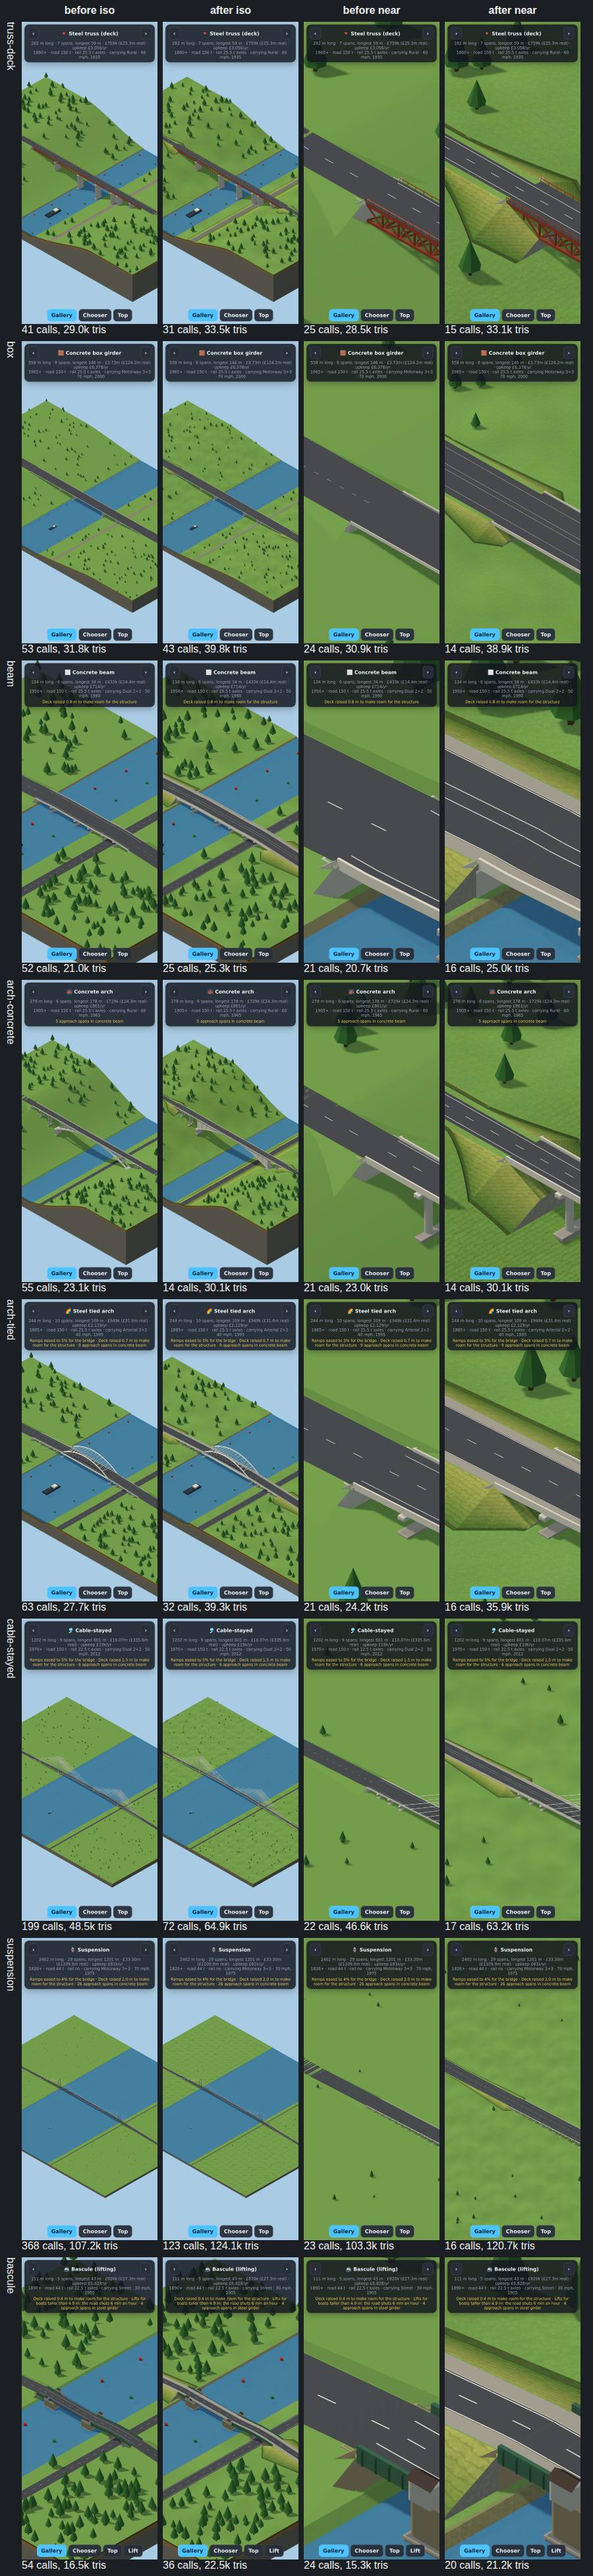
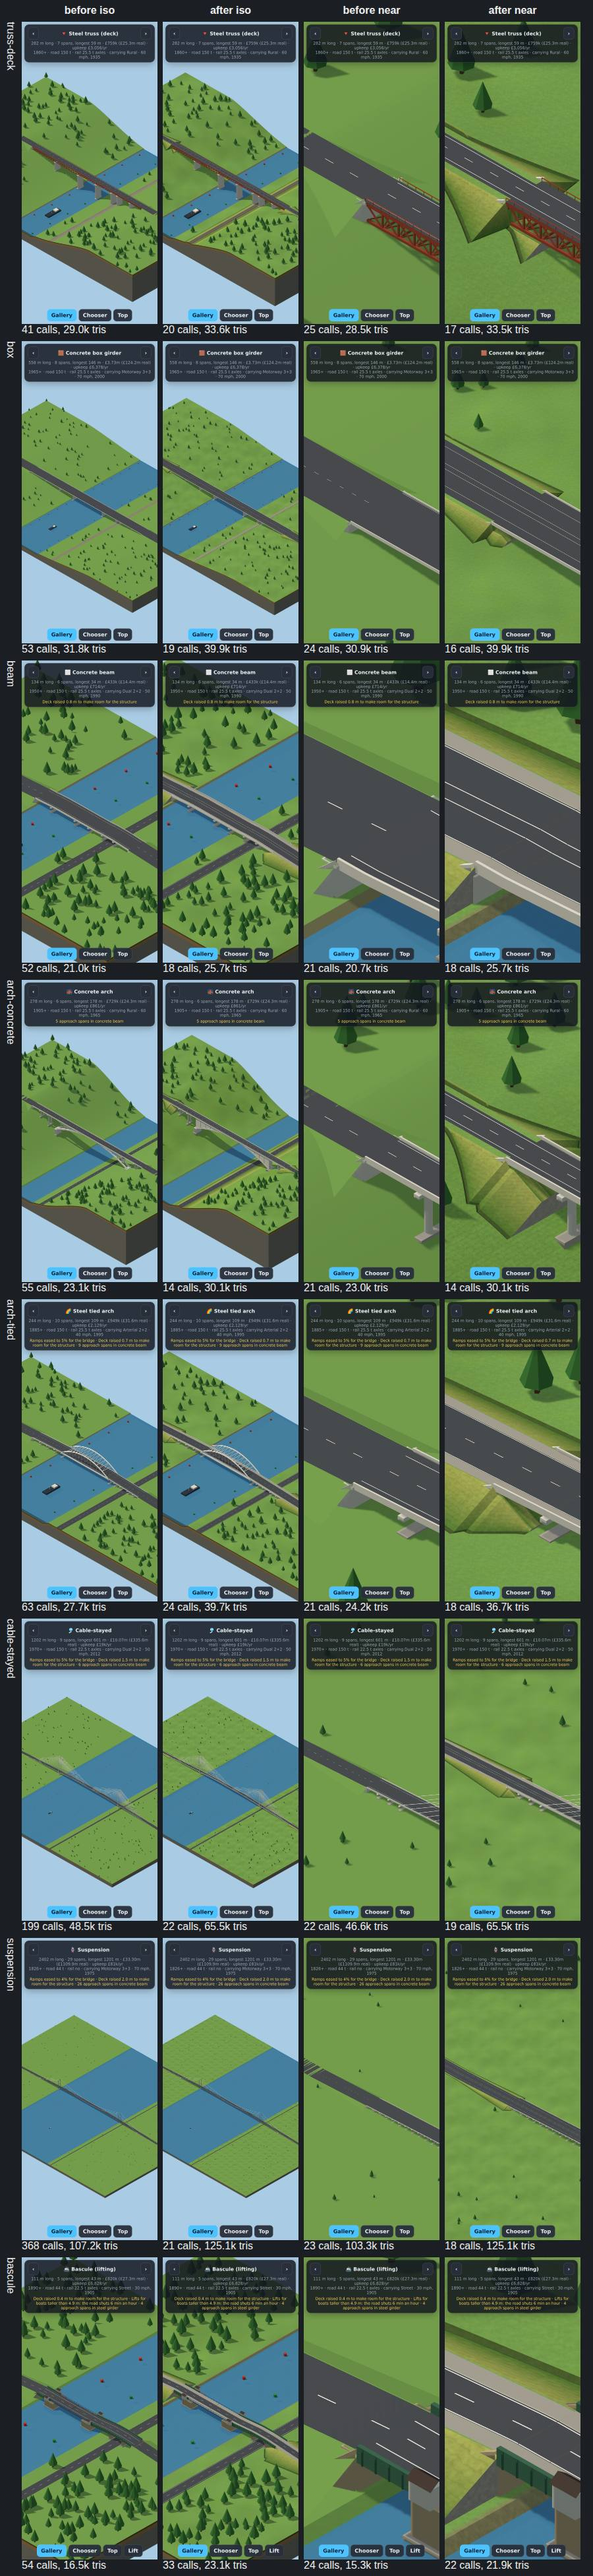
Bridges: final before and after numbers and contact sheets
Claude-Session: https://claude.ai/code/session_017X98YbhdPPReFEcpyd4diZ

diff --git a/docs/reports/bridges.md b/docs/reports/bridges.md
@@ -197,26 +197,47 @@ Draw calls and triangles per frame (shadow pass included), at 412×915 @2×, bef
 
 | Type | Iso before | Iso after | Near before | Near after |
 |---|---|---|---|---|
-| Timber trestle | 39 · 18.6k | 16 · 17.9k | 21 · 18.5k | 18 · 36.5k |
-| Masonry arch viaduct | 59 · 27.1k | 26 · 24.2k | 20 · 26.7k | 17 · 60.1k |
-| Steel girder | 54 · 22.0k | 25 · 19.2k | 22 · 21.7k | 19 · 56.9k |
-| Steel truss (through) | 82 · 49.8k | 34 · 42.8k | 21 · 49.2k | 18 · 80.5k |
-| Steel truss (deck) | 41 · 29.0k | 31 · 33.5k | 25 · 28.5k | 15 · 33.1k |
-| Concrete beam | 52 · 21.0k | 25 · 25.3k | 21 · 20.7k | 16 · 25.0k |
-| Concrete box girder | 53 · 31.8k | 43 · 39.8k | 24 · 30.9k | 14 · 38.9k |
+| Timber trestle | 39 · 18.6k | 19 · 34.9k | 21 · 18.5k | 16 · 26.5k |
+| Masonry arch viaduct | 59 · 27.1k | 18 · 23.6k | 20 · 26.7k | 19 · 53.3k |
+| Steel girder | 54 · 22.0k | 20 · 19.0k | 22 · 21.7k | 19 · 34.5k |
+| Steel truss (through) | 82 · 49.8k | 20 · 41.2k | 21 · 49.2k | 20 · 70.8k |
+| Steel truss (deck) | 41 · 29.0k | 20 · 33.6k | 25 · 28.5k | 17 · 33.5k |
+| Concrete beam | 52 · 21.0k | 18 · 25.7k | 21 · 20.7k | 18 · 25.7k |
+| Concrete box girder | 53 · 31.8k | 19 · 39.9k | 24 · 30.9k | 16 · 39.9k |
 | Concrete arch | 55 · 23.1k | 14 · 30.1k | 21 · 23.0k | 14 · 30.1k |
-| Steel tied arch | 63 · 27.7k | 32 · 39.3k | 21 · 24.2k | 16 · 35.9k |
-| Cable-stayed | 199 · 48.5k | 72 · 64.9k | 22 · 46.6k | 17 · 63.2k |
-| Suspension | 368 · 107.2k | 123 · 124.1k | 23 · 103.3k | 16 · 120.7k |
-| Bascule | 54 · 16.5k | 36 · 22.5k | 24 · 15.3k | 20 · 21.2k |
+| Steel tied arch | 63 · 27.7k | 24 · 39.7k | 21 · 24.2k | 18 · 36.7k |
+| Cable-stayed | 199 · 48.5k | 22 · 65.5k | 22 · 46.6k | 19 · 65.5k |
+| Suspension | 368 · 107.2k | 21 · 125.1k | 23 · 103.3k | 18 · 125.1k |
+| Bascule | 54 · 16.5k | 33 · 23.1k | 24 · 15.3k | 22 · 21.9k |
 
-Draw calls fall everywhere: the old scene drew every dash of the roads underneath as its own
-mesh, and the route's grass, surface and ballast separately. After review the channel buoys are
-instanced too, which takes the suspension scene from 123 to about 20 draw calls and
-cable-stayed from 72 to about 20 (see below). The budget for the far view is
-at most about 130k triangles for the whole scene (the 3.5 km suspension bridge); the near view
-adds at most about 60k for track on screen, drawn in 120 m chunks so off-screen ones are culled.
-Nothing new runs per frame.
+Draw calls fall everywhere, to 14–33 for every type: the old scene drew every dash of the roads
+underneath and every channel buoy as its own mesh, and the route's grass, surface and ballast
+separately. The trestle's default view now opens just inside the near look (0.12 m a pixel),
+which is why its triangles rose. The budget: at most about 130k triangles for a whole scene
+(the 3.5 km suspension bridge), and the near look adds at most about 50k for the track on
+screen, drawn in 120 m chunks so off-screen ones are culled. Nothing new runs per frame. The
+far look's rails are painted at their true width, and the track textures are filtered
+anisotropically, so the switch between looks refines the track rather than popping.
+
+An adversarial review (a visual and a performance reviewer, each writing failing tests,
+`visual.review.test.ts` and `perf.review.test.ts`) found 23 problems. All of them are fixed:
+
+- buoys as separate meshes;
+- instance buffers never freed;
+- `buildBridge`'s default parts changed for callers;
+- chunks per path;
+- a repeated first point pinching the track;
+- rings crossing near corners;
+- ground folding on tight bends;
+- bench roads on curves;
+- floating footings;
+- trees over the map's edge and over roads;
+- a pop at the near/far switch;
+- fin-like wing walls;
+- coplanar faces in 121 of 364 railway variants off the gallery.
+
+Two review tests were corrected, with notes in them: a curve longer than a full turn, and a
+brightness baseline that counted sleeper-free ballast as rail.
 
 ![Rail types, before and after](bridges/track-rail.jpg)
 ![Other types, before and after](bridges/track-other.jpg)
